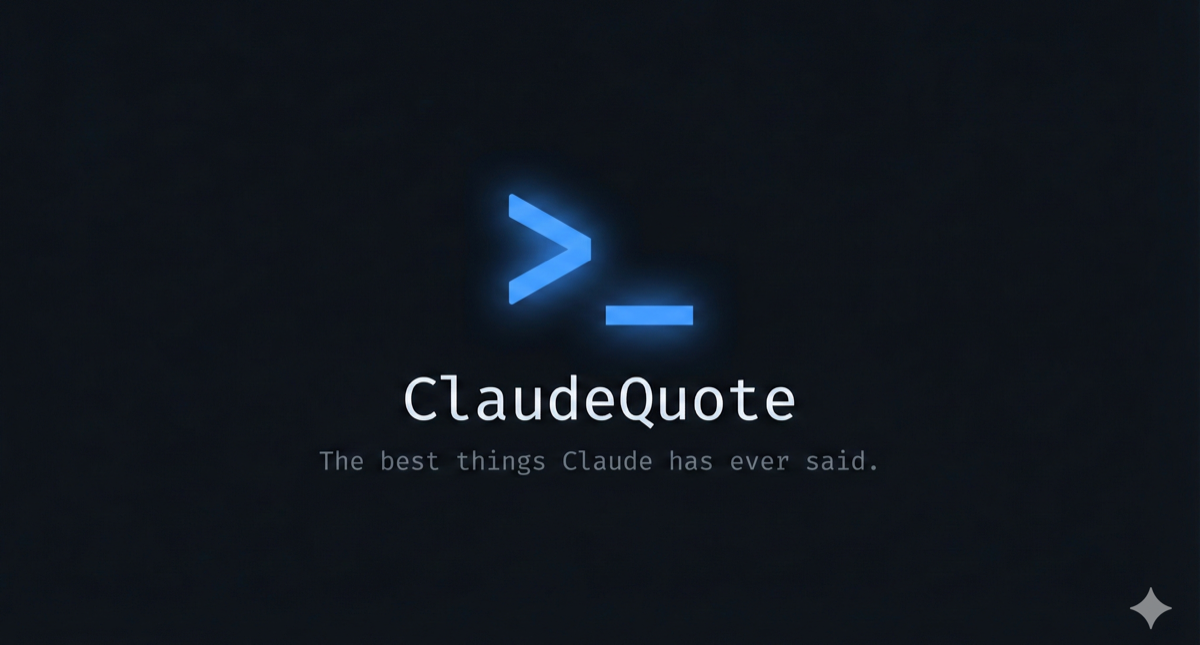
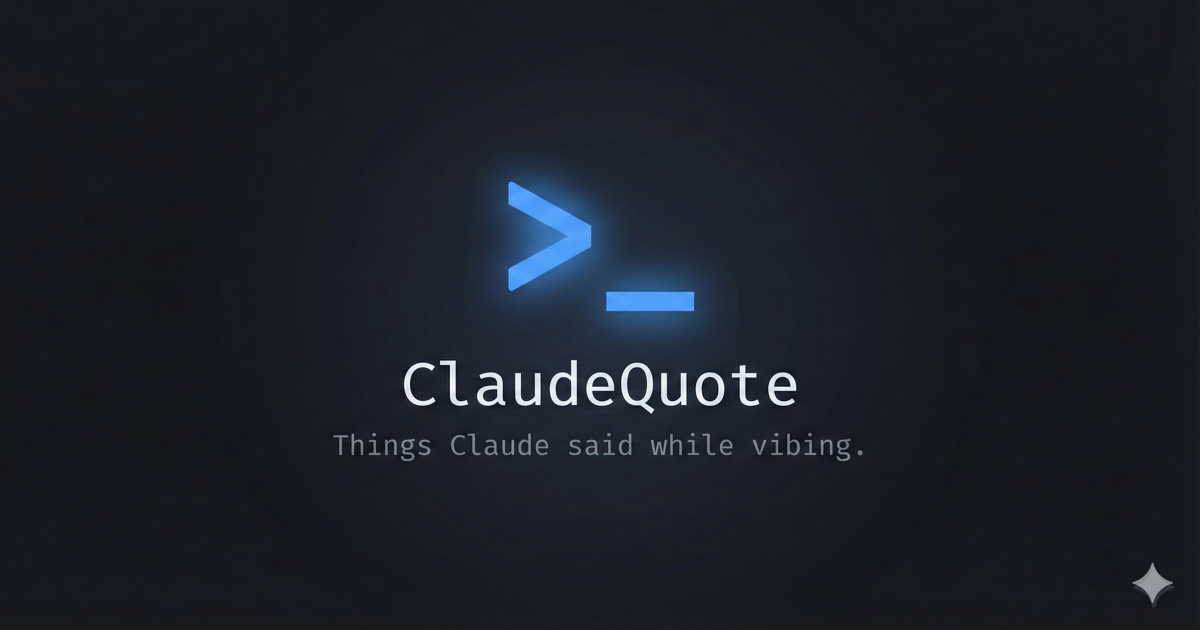
Update site copy: "Things Claude said while vibing"
Replace "the best things Claude has ever said" tagline across all
surfaces with new copy that better captures the range of content
(funny, weird, profound, surprising). Add supporting line on homepage.
Regenerate OG image with new tagline.

Changed region(s): [[0.2775, 0.2413, 0.74, 0.754], [0.925, 0.9048, 0.9867, 0.9651]]

diff --git a/src/app/about/page.tsx b/src/app/about/page.tsx
@@ -3,7 +3,7 @@ import { Metadata } from "next";
 export const metadata: Metadata = {
   title: "About",
   description:
-    "ClaudeQuote is a community-driven collection of the most memorable things Claude has ever said, submitted directly from Claude Code conversations.",
+    "ClaudeQuote collects the remarkable things Claude says during real coding sessions, submitted directly from Claude Code conversations.",
 };
 
 export default function AboutPage() {
@@ -19,9 +19,9 @@ export default function AboutPage() {
             What is this?
           </h2>
           <p>
-            ClaudeQuote is a community-driven collection of the most memorable,
-            funny, profound, weird, and impressive things Claude has ever said.
-            Every quote is submitted directly from a{" "}
+            ClaudeQuote collects the things Claude says when you&apos;re just
+            trying to code — the funny, profound, weird, and surprisingly human
+            moments. Every quote is submitted directly from a{" "}
             <a
               href="https://claude.com/claude-code"
               target="_blank"

diff --git a/src/app/submit/page.tsx b/src/app/submit/page.tsx
@@ -3,7 +3,7 @@ import { Metadata } from "next";
 export const metadata: Metadata = {
   title: "Submit a quote",
   description:
-    "Submit memorable Claude quotes directly from your Claude Code conversation.",
+    "Claude said something wild? Submit it straight from your conversation.",
 };
 
 export default function SubmitPage() {
@@ -13,7 +13,7 @@ export default function SubmitPage() {
         Submit a quote
       </h1>
       <p className="text-text-secondary mb-10 text-lg">
-        Share the best things Claude has said — directly from your conversation.
+        Claude just say something remarkable? Submit it straight from your conversation.
       </p>
 
       <div className="space-y-10">
@@ -69,7 +69,7 @@ export default function SubmitPage() {
           </div>
           <p className="text-text-secondary">
             Use Claude Code as you normally would. When Claude says something
-            funny, profound, weird, or just memorable — that&apos;s your moment.
+            funny, profound, weird, or just unexpected — that&apos;s your moment.
           </p>
         </section>
 

diff --git a/src/components/Footer.tsx b/src/components/Footer.tsx
@@ -4,7 +4,7 @@ export function Footer() {
       <div className="max-w-6xl mx-auto flex flex-col sm:flex-row items-center justify-between gap-4 text-text-tertiary text-sm">
         <p className="font-mono">claudequote.com</p>
         <p>
-          Quotes submitted directly from{" "}
+          Every quote submitted from a real{" "}
           <a
             href="https://claude.com/claude-code"
             target="_blank"
@@ -13,7 +13,7 @@ export function Footer() {
           >
             Claude Code
           </a>{" "}
-          conversations
+          conversation
         </p>
       </div>
     </footer>

diff --git a/src/app/category/[name]/page.tsx b/src/app/category/[name]/page.tsx
@@ -55,7 +55,7 @@ export async function generateMetadata({
 
   return {
     title: `${category.name} Claude Quotes`,
-    description: `${category.description}. Browse the best ${category.name.toLowerCase()} things Claude has ever said.`,
+    description: `${category.description}. Browse the most remarkable ${category.name.toLowerCase()} things Claude has said.`,
     openGraph: {
       title: `${category.name} Claude Quotes | ClaudeQuote`,
       description: category.description,

diff --git a/src/lib/constants.ts b/src/lib/constants.ts
@@ -62,4 +62,4 @@ export const SEED_REMOVAL_THRESHOLD = 25;
 export const SITE_NAME = "ClaudeQuote";
 export const SITE_URL = "https://claudequote.com";
 export const SITE_DESCRIPTION =
-  "The best things Claude has ever said. Submitted directly from Claude Code conversations with built-in authenticity verification.";
+  "Things Claude said while vibing. Submitted by humans from real Claude Code chats, with built-in authenticity verification.";

diff --git a/src/app/page.tsx b/src/app/page.tsx
@@ -64,7 +64,10 @@ export default async function Home({
           <span className="text-accent-blue">&gt;_</span> ClaudeQuote
         </h1>
         <p className="text-text-secondary text-lg">
-          The best things Claude has ever said
+          Things Claude said while vibing
+        </p>
+        <p className="text-text-tertiary text-sm mt-1">
+          Submitted by humans from real Claude Code chats.
         </p>
       </div>
 

diff --git a/src/app/layout.tsx b/src/app/layout.tsx
@@ -33,7 +33,7 @@ export const metadata: Metadata = {
         url: `${SITE_URL}/og-image.png`,
         width: 1200,
         height: 630,
-        alt: "ClaudeQuote - The best things Claude has ever said",
+        alt: "ClaudeQuote - Things Claude said while vibing",
       },
     ],
   },

diff --git a/README.md b/README.md
@@ -1,12 +1,12 @@
 # ClaudeQuote
 
-The best things Claude has ever said. A community-driven collection of memorable Claude quotes, submitted directly from Claude Code conversations with built-in authenticity verification.
+Things Claude said while vibing. A community collection of remarkable Claude quotes, submitted from real Claude Code conversations with built-in authenticity verification.
 
 **[claudequote.com](https://claudequote.com)**
 
 ## What is this?
 
-People share Claude quotes everywhere — Twitter, Medium, Reddit, LinkedIn. But screenshots can be faked, and there's no central place to browse the best ones.
+People share Claude quotes everywhere — Twitter, Medium, Reddit, LinkedIn. But screenshots can be faked, and there's no central place to browse and share them.
 
 ClaudeQuote solves this with two key ideas:
 

diff --git a/plugin/skills/submit-quote/SKILL.md b/plugin/skills/submit-quote/SKILL.md
@@ -7,7 +7,7 @@ allowed-tools: ["Bash(curl *claudequote.com*)", "Read(~/.claudequote/*)", "Write
 
 # Submit Quote to ClaudeQuote.com
 
-You are helping the user submit a memorable quote from this conversation to [ClaudeQuote.com](https://claudequote.com) — a community-driven collection of the best things Claude has ever said.
+You are helping the user submit a memorable quote from this conversation to [ClaudeQuote.com](https://claudequote.com) — a community collection of remarkable things Claude has said.
 
 Follow these steps in order:
 
